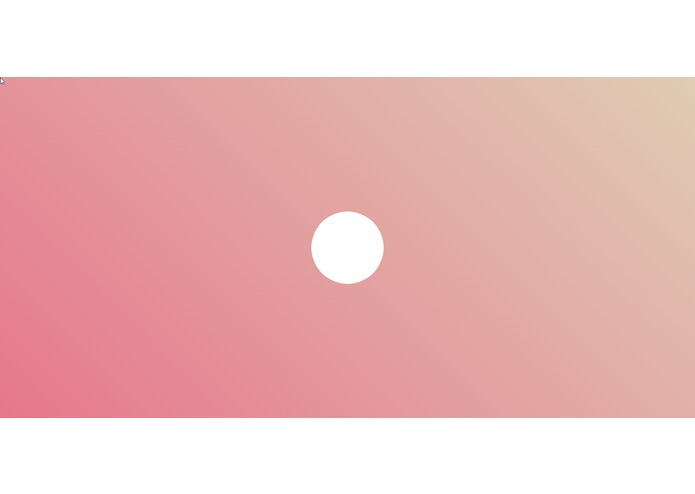
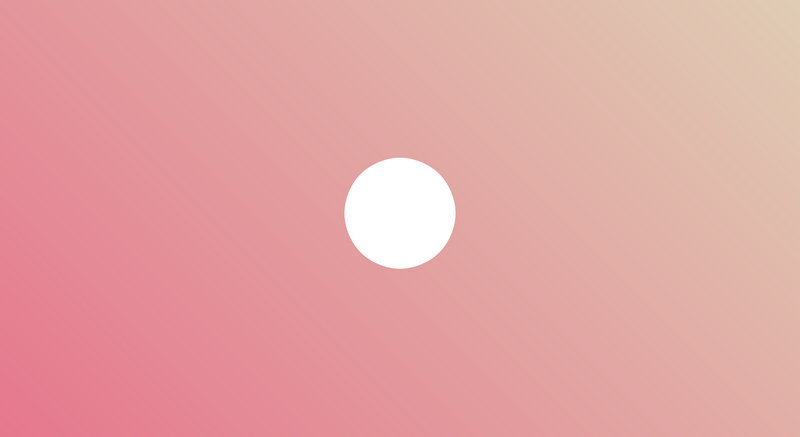
updated polyrhythm project

diff --git a/index.html b/index.html
@@ -7,7 +7,7 @@ sub-title: These are a few of the projects I've worked on
 image: http://fillmurray.com/300/300
 projects:
     - name: PolyRhythm
-      color: seafoam
+      color: salmon
       link: polyrhythm
       tools:
         - Visual Design

diff --git a/_posts/blog/2015-10-13-movies-to-watch.md b/_posts/blog/2015-10-13-movies-to-watch.md
@@ -6,47 +6,44 @@ author: Devan Huapaya
 category: blog
 style_mod: BASIC
 ---
-# Movies to Watch
-
-- [ ] The Book of Mormon
-- [ ] How to Succeed in Business Without Really Trying
-- [ ] 2010 (A Space Odyssey)
-- [ ] Dr. Strangelove or: How I Learned to Stop Worrying and Love the Bomb
-- [ ] Fantastic Planet
-- [ ] Barry Lyndon
-- [ ] Jodorowsky's Dune  
-- [ ] El Topo
-- [ ] People Places
-- [ ] Human the Movie http://imgur.com/a/GPDue
-- [ ] Short film http://imgur.com/a/VD0Za
-- [ ] Spoopy Films http://imgur.com/a/PZbGG
-- [ ] Animations http://imgur.com/a/IudYc
-- [ ] Robot Hindi movie https://www.youtube.com/watch?v=6VVxOYtimBM
-- [ ] http://tolia.ge/
-- [ ] PERSEPOLIS
-- [ ] Dances with Wolves (1990)
-- [ ] One Flew Over the Cuckoo's Nest (1975)
-- [ ] Annie Hall (1977)
-- [ ] The Deer Hunter (1978)
-- [ ] Platoon (1986) - really good war flic
-- [x] Her - was only ok
-- [x] Chappie - 🔑
-- [x] Edge of Tomorrow - *terrible*
-- [x] Star Ship Troopers - *book infinity times better*
-- [x] John Wick - terrible
-- [x] Gravity - good!
-- [x] 2001: A Space Odyssey - *book infinity times better*
-- [x] Interstellar - Awesome!
-- [x] Somebody Up There Likes Me - I don't really remember it
-- [x] What We Do In The Shadows - Awesome!
-- [x] Funny Games - get's under your skin, but that's the point
-- [x] Halloween Town - Awesome!
-- [x] Hair - rreally good
-- [x] The Perks of Being a Wallflower - Awesome!
-- [x] El Mariachi - bad ass
-- [x] Desperado - bad ass
-- [x] Once Upon A Time In Mexico - badd ass
-- [x] A Brony Tale - good documentary
-- [x] Jimmy and Judy - super indie
-- [x] Chumscruber - deep
-- [x] American Beautiy - deep
+- The Book of Mormon
+- [Robot Hindi movie](https://www.youtube.com/watch?v=6VVxOYtimBM)
+- How to Succeed in Business Without Really Trying
+- 2010 (A Space Odyssey)
+- Dr. Strangelove or: How I Learned to Stop Worrying and Love the Bomb
+- [Human the Movie](http://imgur.com/a/GPDue)
+- Fantastic Planet
+- [These animations](http://imgur.com/a/IudYc)
+- Barry Lyndon
+- Jodorowsky's Dune  
+- [This short film](http://imgur.com/a/VD0Za)
+- El Topo
+- People Places
+- [These Spoopy Films](http://imgur.com/a/PZbGG)
+- Persepolis
+- Dances with Wolves (1990)
+- One Flew Over the Cuckoo's Nest (1975)
+- Annie Hall (1977)
+- The Deer Hunter (1978)
+- Platoon (1986) - really good war flic
+- <span class="gray">Her</span> - was only ok
+- <span class="gray">Chappie</span> - 🔑
+- <span class="gray">Edge of Tomorrow</span> - *terrible*
+- <span class="gray">Star Ship Troopers</span> - *book infinity times better*
+- <span class="gray">John Wick</span> - terrible
+- <span class="gray">Gravity</span> - good!
+- <span class="gray">2010: A Space Odyssey</span> - *book infinity times better*
+- <span class="gray">Interstellar</span> - Awesome!
+- <span class="gray">Somebody Up There Likes Me</span> - I don't really remember it
+- <span class="gray">What We Do In The Shadows</span> - Awesome!
+- <span class="gray">Funny Games</span> - get's under your skin, but that's the point
+- <span class="gray">Halloween Town</span> - Awesome!
+- <span class="gray">Hair</span> - rreally good
+- <span class="gray">The Perks of Being a Wallflower</span> - Awesome!
+- <span class="gray">El Mariachi</span> - bad ass
+- <span class="gray">Desperado</span> - bad ass
+- <span class="gray">Once Upon A Time In Mexico</span> - badd ass
+- <span class="gray">A Brony Tale</span> - good documentary
+- <span class="gray">Jimmy and Judy</span> - super indie
+- <span class="gray">Chumscruber</span> - deep
+- <span class="gray">American Beautiy</span> - deep

diff --git a/_projects/polyrhythm.md b/_projects/polyrhythm.md
@@ -1,7 +1,7 @@
 ---
 layout: blog-article-mostly-empty
 title: "PolyRhythm"
-title-color: seafoam
+title-color: salmon
 ---
 
 <a href="https://github.com/imdevan/polyrhythm" class="base--a">
